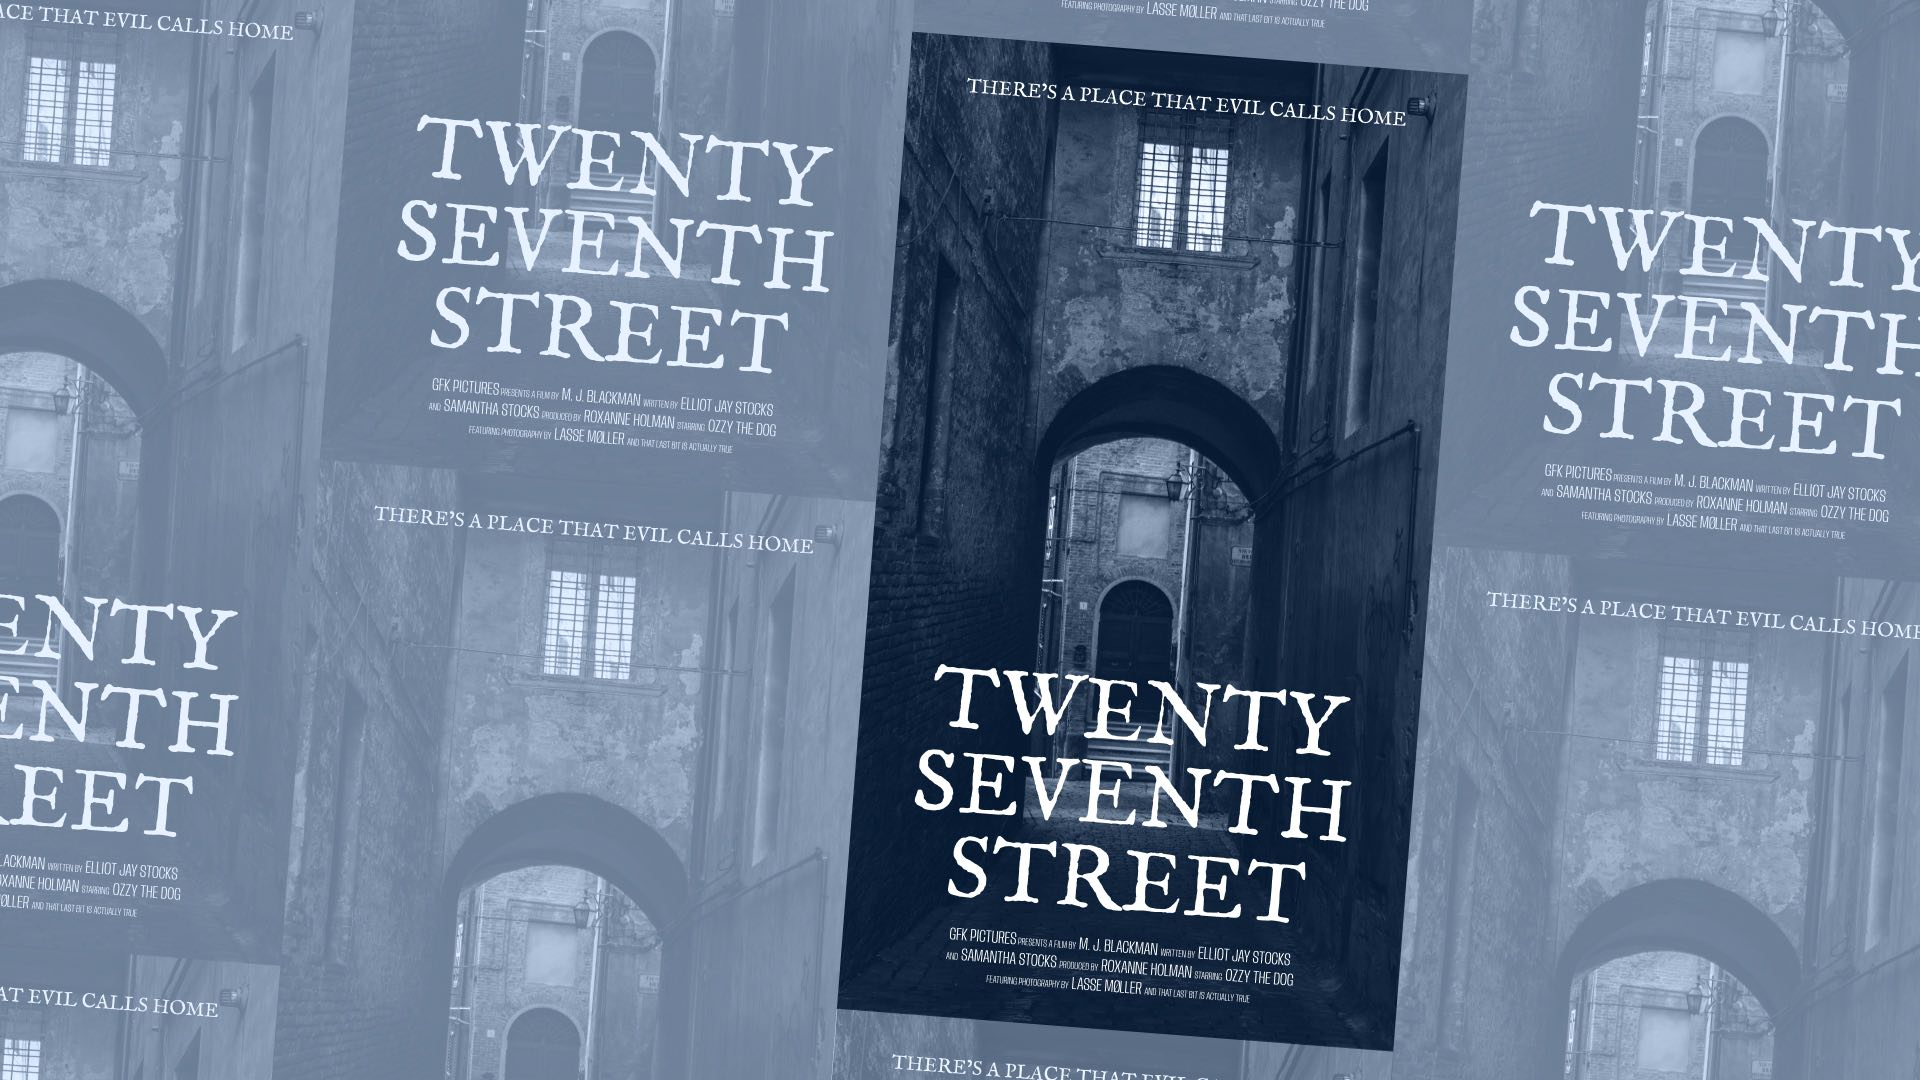
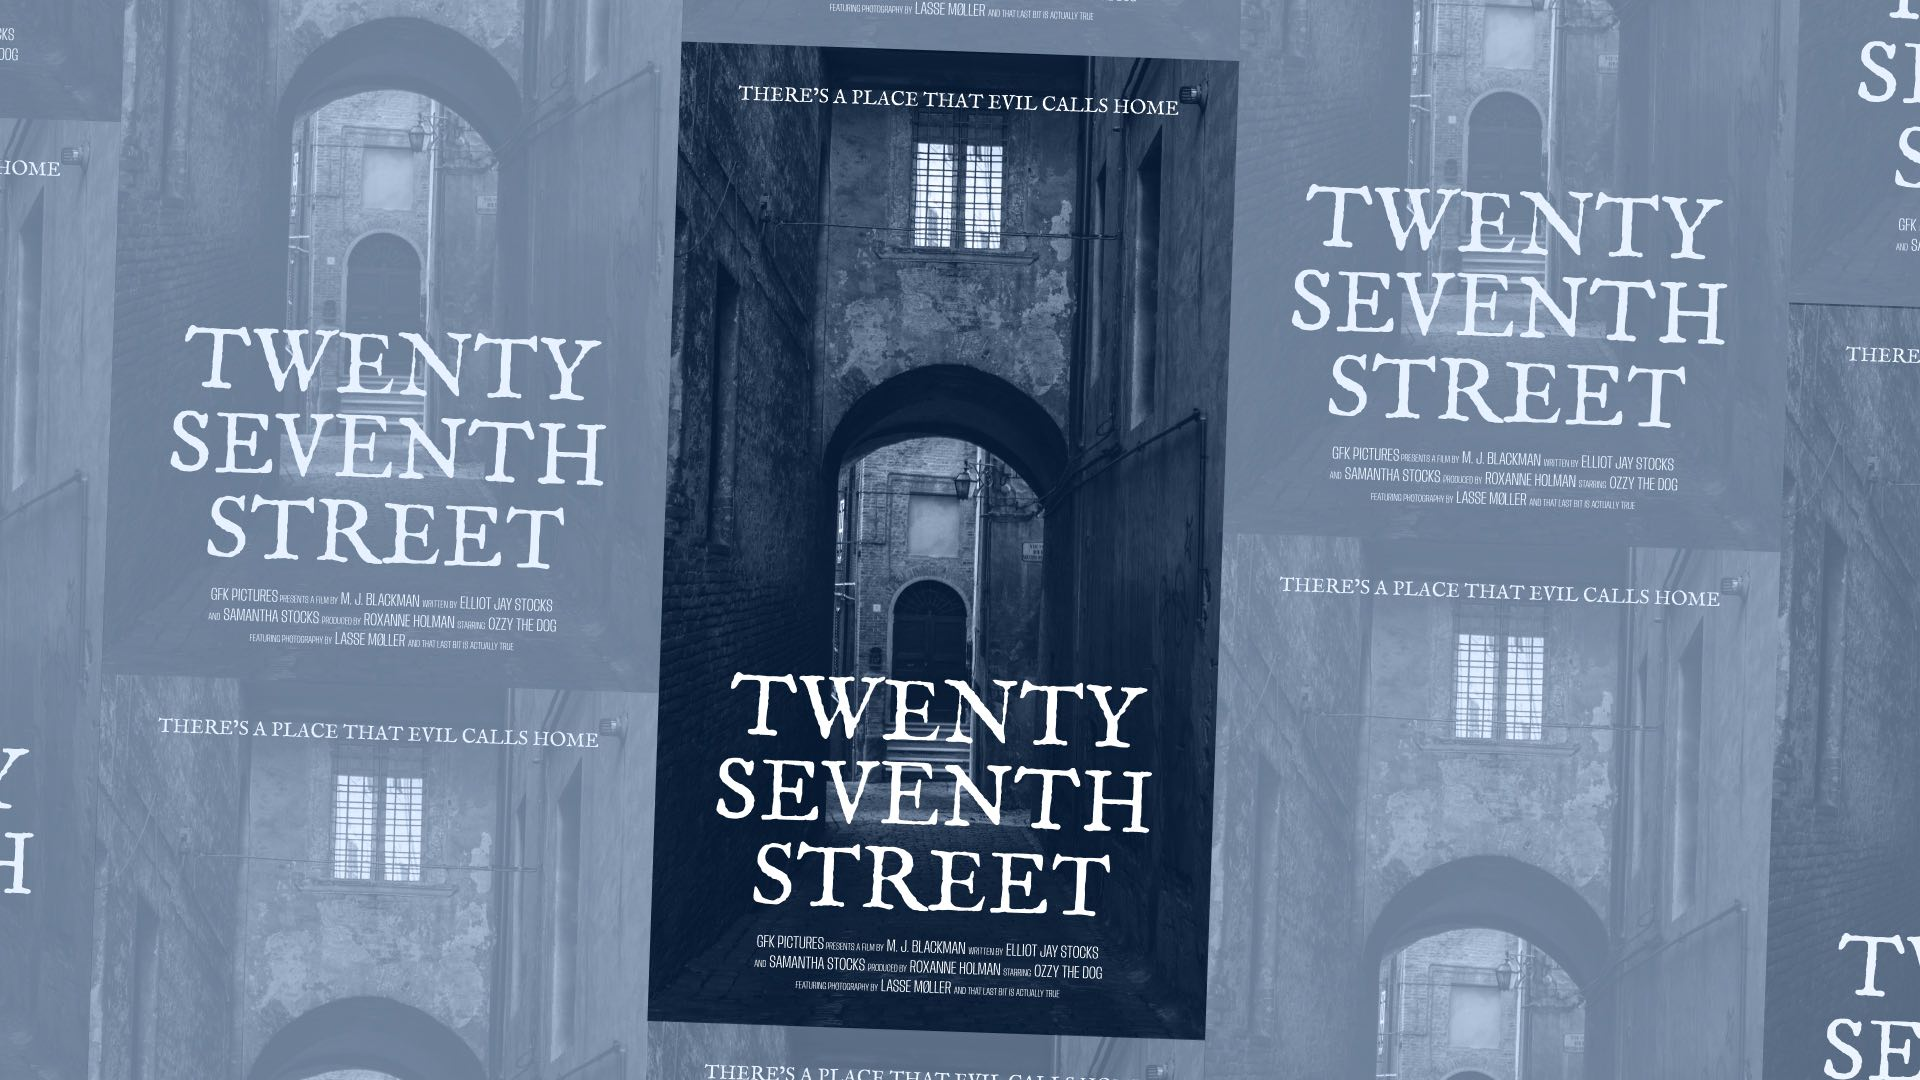
Placing `authenticity_ex2_mock.jpg` in article

diff --git a/cc-by-sa/knowledge/modules/using_type/lessons/adding_an_authentic_natural_touch_to_type/content.md b/cc-by-sa/knowledge/modules/using_type/lessons/adding_an_authentic_natural_touch_to_type/content.md
@@ -92,9 +92,11 @@ Here’s our final lockup:
 
 </figure>
 
+Here’s a mockup of our finished piece:
+
 <figure>
 
-[INSERT illo of lockup in actual poster context]
+![INSERT_ALT](images/authenticity_ex2_mock.jpg)
 
 </figure>
 
